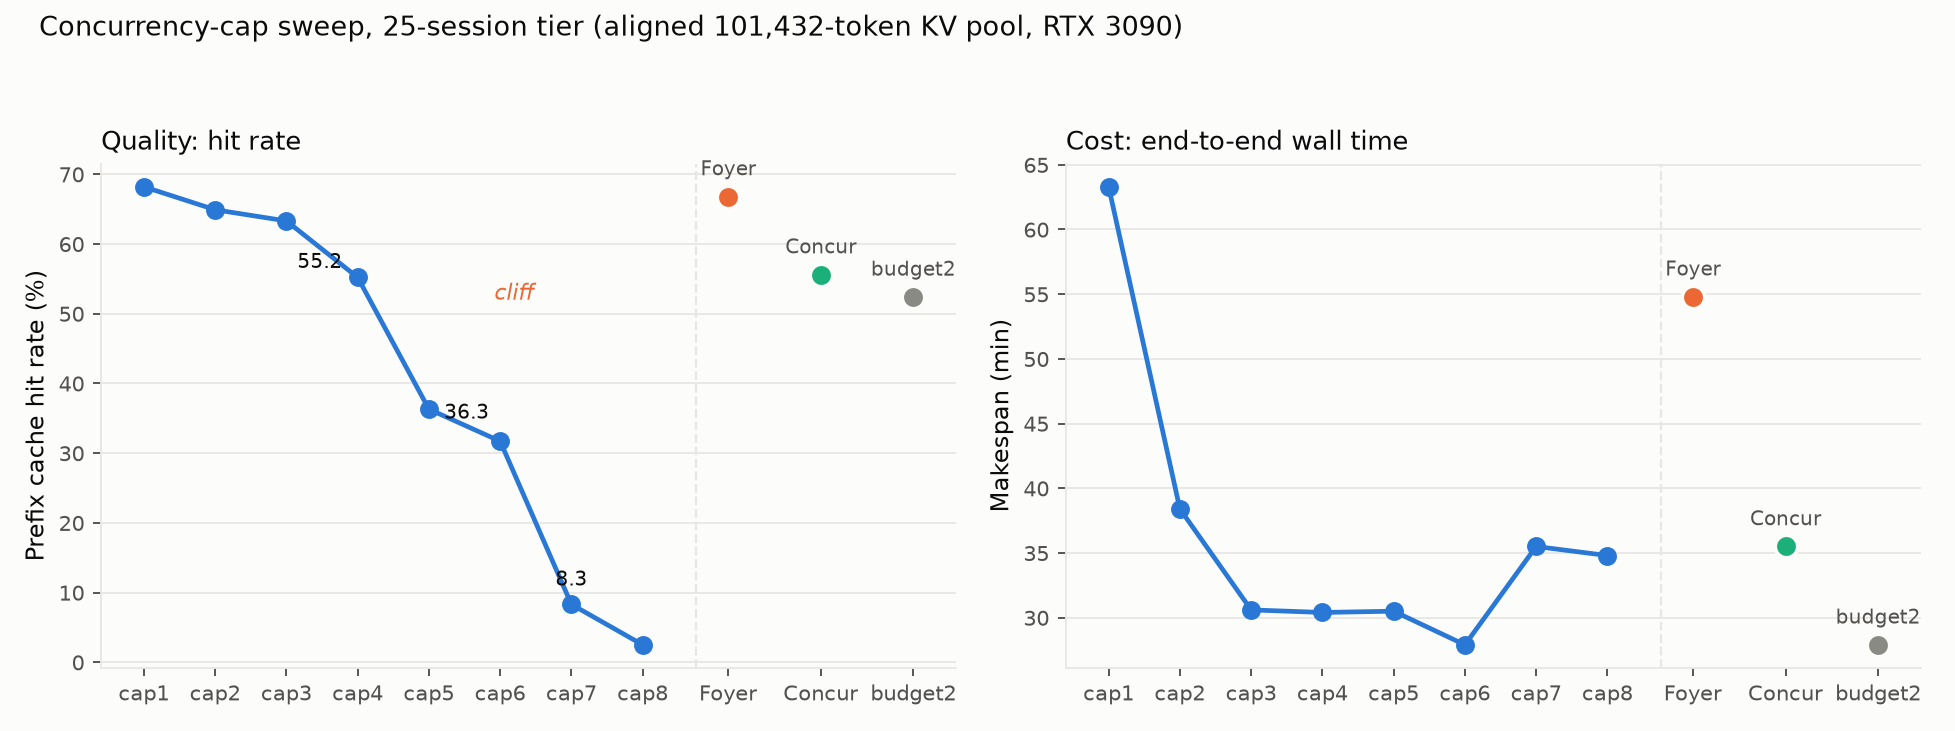
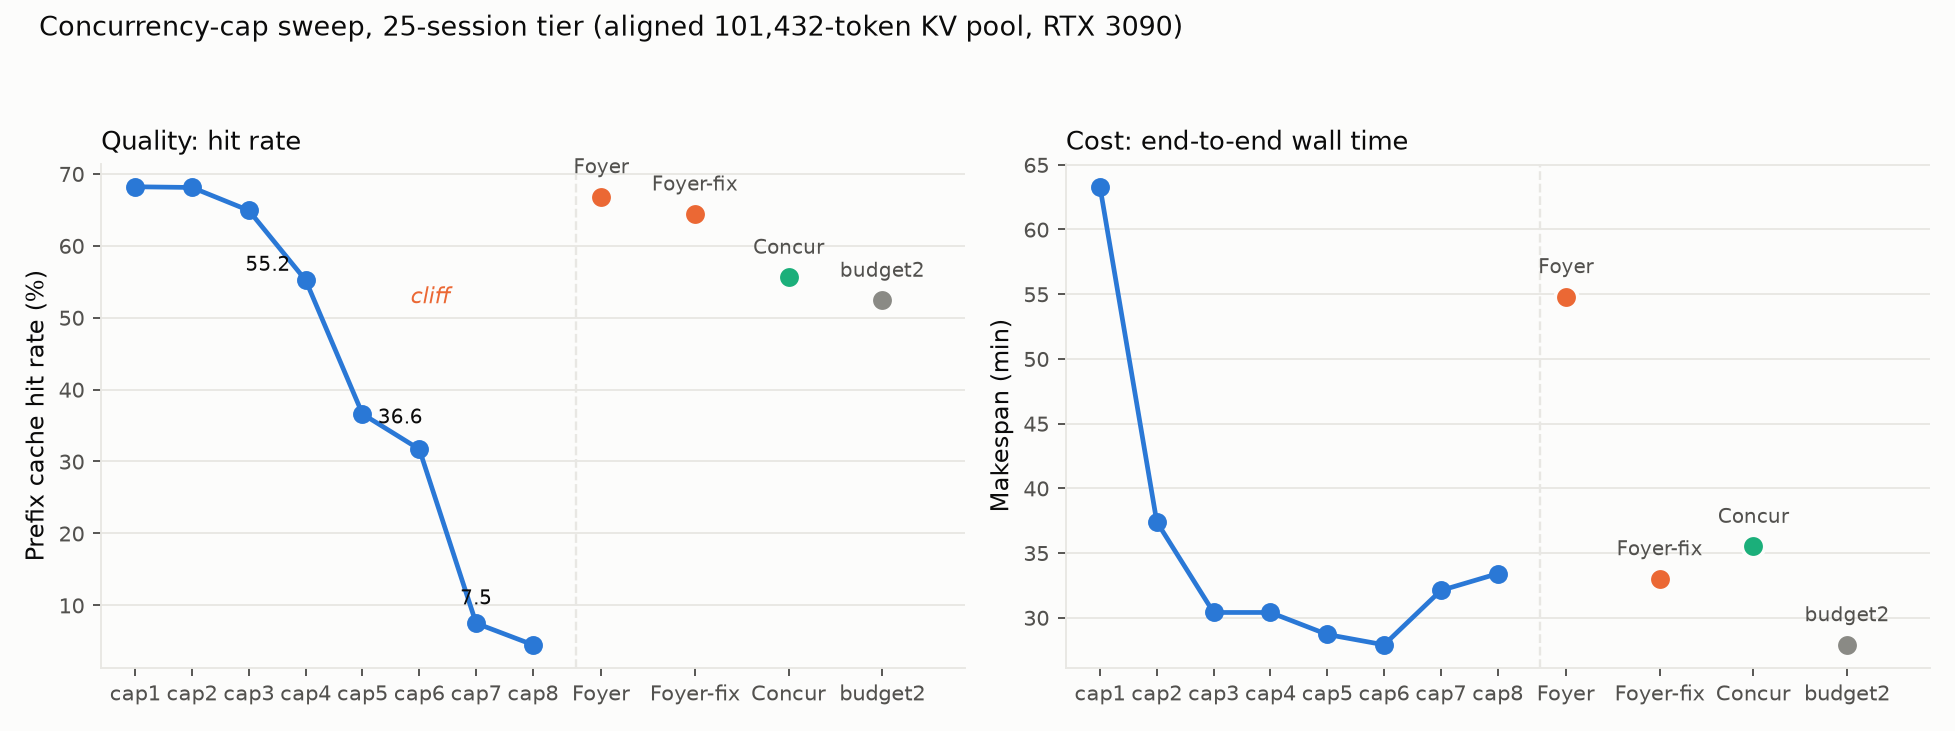
fig: cliff figure on aligned re-runs + Foyer fixed-config point; draft §5.1 table finalised

diff --git a/paper/figs/fig_cap_cliff.py b/paper/figs/fig_cap_cliff.py
@@ -1,0 +1,68 @@
+#!/usr/bin/env python3
+"""Cap-sweep cliff figure for the report: 25-session tier, aligned 101,432-token pool.
+Left: prefix cache hit rate. Right: makespan (wall). Static caps 1-8 as a line;
+adaptive policies as a separated marker group (they own no fixed cap)."""
+import json
+import matplotlib
+matplotlib.use("Agg")
+import matplotlib.pyplot as plt
+
+SURFACE, INK, INK2, GRID = "#fcfcfb", "#0b0b0b", "#52514e", "#e8e7e3"
+BLUE, ORANGE, AQUA, MUTED = "#2a78d6", "#eb6834", "#1baf7a", "#8a8a85"
+
+caps = [1, 2, 3, 4, 5, 6, 7, 8]
+hit = [68.2, 68.1, 64.9, 55.2, 36.6, 31.7, 7.5, 4.5]
+wall = [63.3, 37.4, 30.4, 30.4, 28.7, 27.9, 32.1, 33.4]
+adaptive = [  # (label, hit%, wall_min, color, short)
+    ("Foyer (default cfg)", 66.8, 54.8, ORANGE, "Foyer"),
+    ("Foyer (throttle fixed)", 64.4, 33.0, ORANGE, "Foyer-fix"),
+    ("Concur (faithful)", 55.6, 35.5, AQUA, "Concur"),
+    ("budget2 (oracle bound)", 52.4, 27.9, MUTED, "budget2"),
+]
+
+fig, axes = plt.subplots(1, 2, figsize=(11.5, 4.3), dpi=170)
+fig.patch.set_facecolor(SURFACE)
+AX = 9.2  # adaptive group x-anchor, beyond a divider
+
+for ax, y, ylab, title in [
+        (axes[0], hit, "Prefix cache hit rate (%)", "Quality: hit rate"),
+        (axes[1], wall, "Makespan (min)", "Cost: end-to-end wall time")]:
+    ax.set_facecolor(SURFACE)
+    ax.plot(caps, y, "-o", color=BLUE, lw=2, ms=7, zorder=3)
+    ax.axvline(8.75, color=GRID, lw=1, ls="--", zorder=1)
+    xs = [AX + i * 1.65 for i in range(len(adaptive))]
+    for xv, (lab, hv, wv, c, short) in zip(xs, adaptive):
+        v = hv if y is hit else wv
+        ax.scatter([xv], [v], s=90, color=c, zorder=3, edgecolors=SURFACE, linewidths=1.5)
+        ax.annotate(short, (xv, v), textcoords="offset points", xytext=(0, 10),
+                    ha="center", fontsize=8.5, color=INK2)
+    ax.set_xticks(caps + xs)
+    ax.set_xticklabels([f"cap{c}" for c in caps] + [short.replace("\n", " ")
+                       for *_, short in adaptive], fontsize=8)
+    for t, (_, _, _, c, _) in zip(ax.get_xticklabels()[8:], adaptive):
+        t.set_color(c)
+    ax.set_xlim(0.4, 15.6)
+    ax.set_ylabel(ylab, fontsize=10, color=INK)
+    ax.set_title(title, fontsize=11, color=INK, loc="left")
+    ax.grid(axis="y", color=GRID, lw=0.8, zorder=0)
+    for s in ("top", "right"):
+        ax.spines[s].set_visible(False)
+    for s in ("left", "bottom"):
+        ax.spines[s].set_color(GRID)
+    ax.tick_params(colors=INK2, labelsize=9)
+
+# selective direct labels on the cliff
+axes[0].annotate("55.2", (4, 55.2), textcoords="offset points", xytext=(-16, 4),
+                 ha="center", fontsize=8.5, color=INK)
+axes[0].annotate("36.6", (5, 36.6), textcoords="offset points", xytext=(16, -4),
+                 ha="center", fontsize=8.5, color=INK)
+axes[0].annotate("7.5", (7, 7.5), textcoords="offset points", xytext=(0, 8),
+                 ha="center", fontsize=8.5, color=INK)
+axes[0].annotate("cliff", (6.2, 52), fontsize=9.5, color=ORANGE, style="italic",
+                 ha="center")
+
+fig.suptitle("Concurrency-cap sweep, 25-session tier (aligned 101,432-token KV pool, RTX 3090)",
+             fontsize=11.5, color=INK, x=0.02, ha="left")
+plt.tight_layout(rect=[0, 0, 1, 0.93])
+plt.savefig("/data/xbw/turnstile/paper/fig_cap_cliff_25tier.png", facecolor=SURFACE)
+print("saved")
